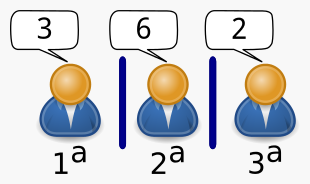
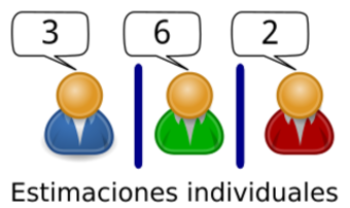
Actualización conformismo

diff --git a/Conformismo.html b/Conformismo.html
@@ -99,20 +99,14 @@
 <div class="fragment">
 <div class="columns">
 <div class="column" style="width:50%;">
-<figure>
-<img data-src="imagenes-conformismo/EfectoAutocinetico-1.png" alt="Estimaciones individualmente" /><figcaption>Estimaciones individualmente</figcaption>
-</figure>
+<p><img data-src="imagenes-conformismo/EfectoAutocinetico-1.png" class="noshadow noborder" /></p>
 </div><div class="column" style="width:50%;">
-<figure>
-<img data-src="imagenes-conformismo/EfectoAutocinetico-2.png" alt="Estimaciones en grupo" /><figcaption>Estimaciones en grupo</figcaption>
-</figure>
+<p><img data-src="imagenes-conformismo/EfectoAutocinetico-2.png" class="noshadow noborder" /></p>
 </div>
 </div>
 </div>
 <div class="fragment">
-<figure>
-<img data-src="imagenes-conformismo/EfectoAutocinetico-3.png" alt="Estimaciones individualmente" /><figcaption>Estimaciones individualmente</figcaption>
-</figure>
+<p><img data-src="imagenes-conformismo/EfectoAutocinetico-3.png" class="noshadow noborder" /></p>
 </div>
 </section><section id="dificultad-tarea" class="slide level2">
 <h2>Dificultad y relevancia de la tarea</h2>
@@ -156,6 +150,9 @@
 <p>[Deutsh y Gerard] Entienden por influencia normativa la que se observa cuando el individuo se conforma con las expectativas positivas del otro (individuo o grupo), a fin de ganar de él una serie de refuerzos y sentimientos positivos, de establecer una solidaridad con él, y en definitiva no verse marginado y ridiculizado por él.<br />
 <span class="citation" data-cites="perez_influencia_1999">Pérez (1999, p. 261)</span></p>
 </blockquote>
+</section><section id="esquema-influencia-normativa" class="slide level2">
+<h2>Esquema influencia normativa</h2>
+<p><img data-src="imagenes-conformismo/InfluenciaNormativa.jpg" /></p>
 <!-- ##
 
 >Es una forma de influencia en la que se ejerce presión para hacer que alguien se conforme a las expectativas y preferencias de los demás. Las expectativas y preferencias de los otros funcionan como norma de grupo de referencia que expresa cómo deben comportarse o qué decisión deben tomar las personas.\
@@ -178,11 +175,11 @@
 </section><section id="el-experimento-de-asch" class="slide level2" data-background="imagenes-conformismo/Asch-conformity.jpg" data-background-transition="zoom" data-state="fondo">
 <h2>El experimento de Asch</h2>
 <div class="fragment">
-<p><span class="noborder"><img data-src="imagenes-conformismo/Asch-1.png" /></span></p>
+<p><img data-src="imagenes-conformismo/Asch-1.png" class="noshadow" /></p>
 </div>
 </section><section id="el-experimento-de-asch-1" class="slide level2" data-background="imagenes-conformismo/Asch-conformity.jpg" data-background-transition="zoom" data-state="fondo">
 <h2>El experimento de Asch</h2>
-<p><img data-src="imagenes-conformismo/Asch-2.png" /></p>
+<p><img data-src="imagenes-conformismo/Asch-2.png" class="noshadow" /></p>
 </section><section id="resultados" class="slide level2">
 <h2>Resultados</h2>
 <ul>

diff --git a/reveal.js/css/theme/juan.css b/reveal.js/css/theme/juan.css
@@ -300,6 +300,10 @@ background-color:  #d0dafd;
   box-shadow: none;
   border: 0 0 0px;}
 
+.reveal .noborder {
+  border: 0px;
+}
+
 html.laback .reveal section img {
   border: none;
   -webkit-box-shadow: none;

diff --git a/Conformismo.md b/Conformismo.md
@@ -71,17 +71,17 @@ lateral-menu: 'True'
 
 :::::: {.columns}
 ::: {.column width="50%"}
-![Estimaciones individualmente](imagenes-conformismo/EfectoAutocinetico-1.png)
+![](imagenes-conformismo/EfectoAutocinetico-1.png){.noshadow .noborder}
 :::
 ::: {.column width="50%"}
-![Estimaciones en grupo](imagenes-conformismo/EfectoAutocinetico-2.png)
+![](imagenes-conformismo/EfectoAutocinetico-2.png){.noshadow .noborder}
 :::
 ::::::
 
 
 . . .
 
-![Estimaciones individualmente](imagenes-conformismo/EfectoAutocinetico-3.png)
+![](imagenes-conformismo/EfectoAutocinetico-3.png){.noshadow .noborder}
 
 ## Dificultad y relevancia de la tarea {#dificultad-tarea}
 
@@ -105,6 +105,7 @@ lateral-menu: 'True'
 :::
 ::::::
 
+
 ## Teorías relacionadas: Ignorancia pluralista {#teorias-ignorancia-pluralista}
 
 :::::: {.columns}
@@ -124,6 +125,9 @@ lateral-menu: 'True'
 >[Deutsh y Gerard] Entienden por influencia normativa la que se observa cuando el individuo se conforma con las expectativas positivas del otro (individuo o grupo), a fin de ganar de él una serie de refuerzos y sentimientos positivos, de establecer una solidaridad con él, y en definitiva no verse marginado y ridiculizado por él.\
 @perez_influencia_1999 [p. 261]
 
+## Esquema influencia normativa
+
+![](imagenes-conformismo/InfluenciaNormativa.jpg)
 
 <!-- ##
 
@@ -148,11 +152,11 @@ lateral-menu: 'True'
 
 . . .
 
-[![](imagenes-conformismo/Asch-1.png)]{.noborder}
+![](imagenes-conformismo/Asch-1.png){.noshadow}
 
 ## El experimento de Asch {data-background="imagenes-conformismo/Asch-conformity.jpg" data-background-transition=zoom data-state=fondo}
 
-![](imagenes-conformismo/Asch-2.png)
+![](imagenes-conformismo/Asch-2.png){.noshadow}
 
 ## Resultados
 
